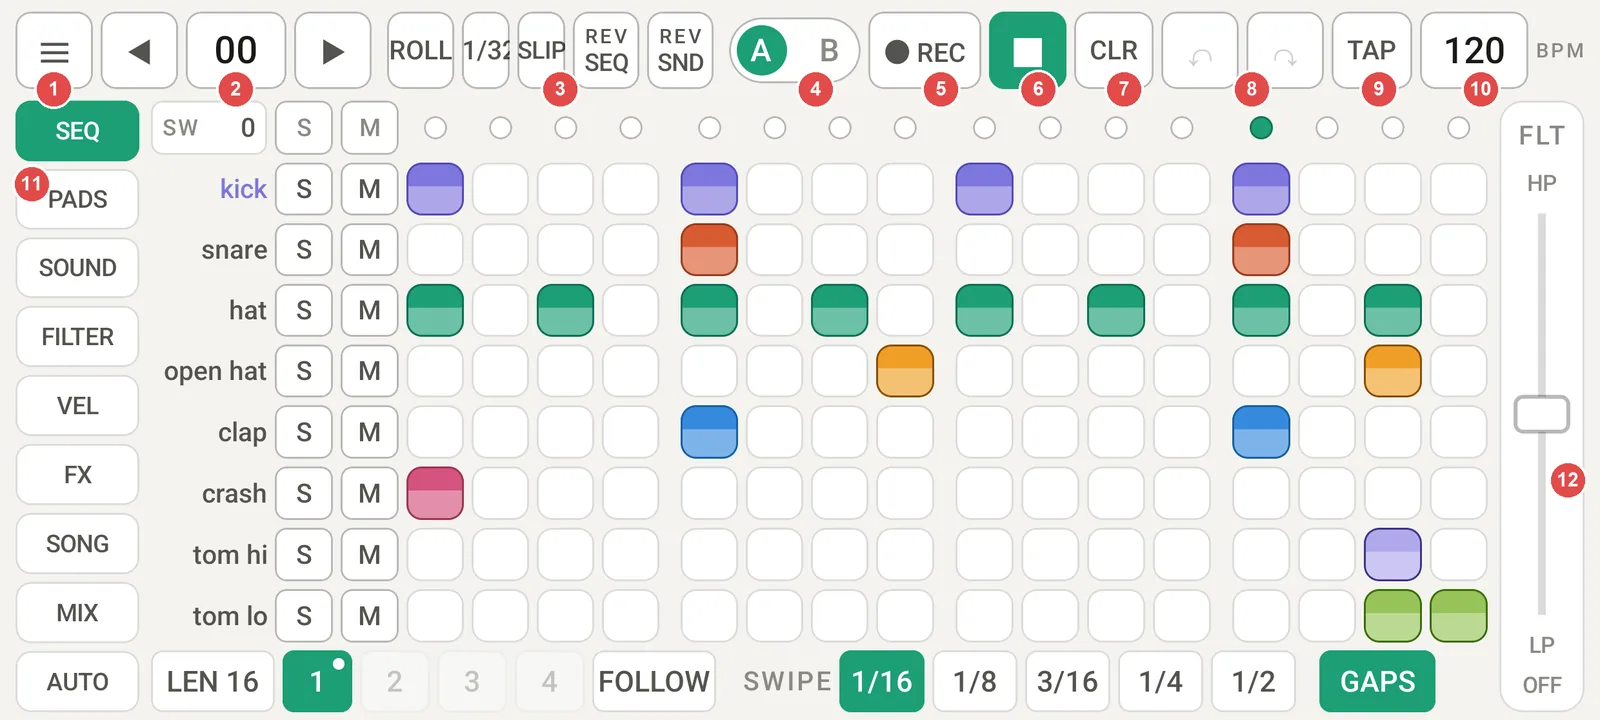
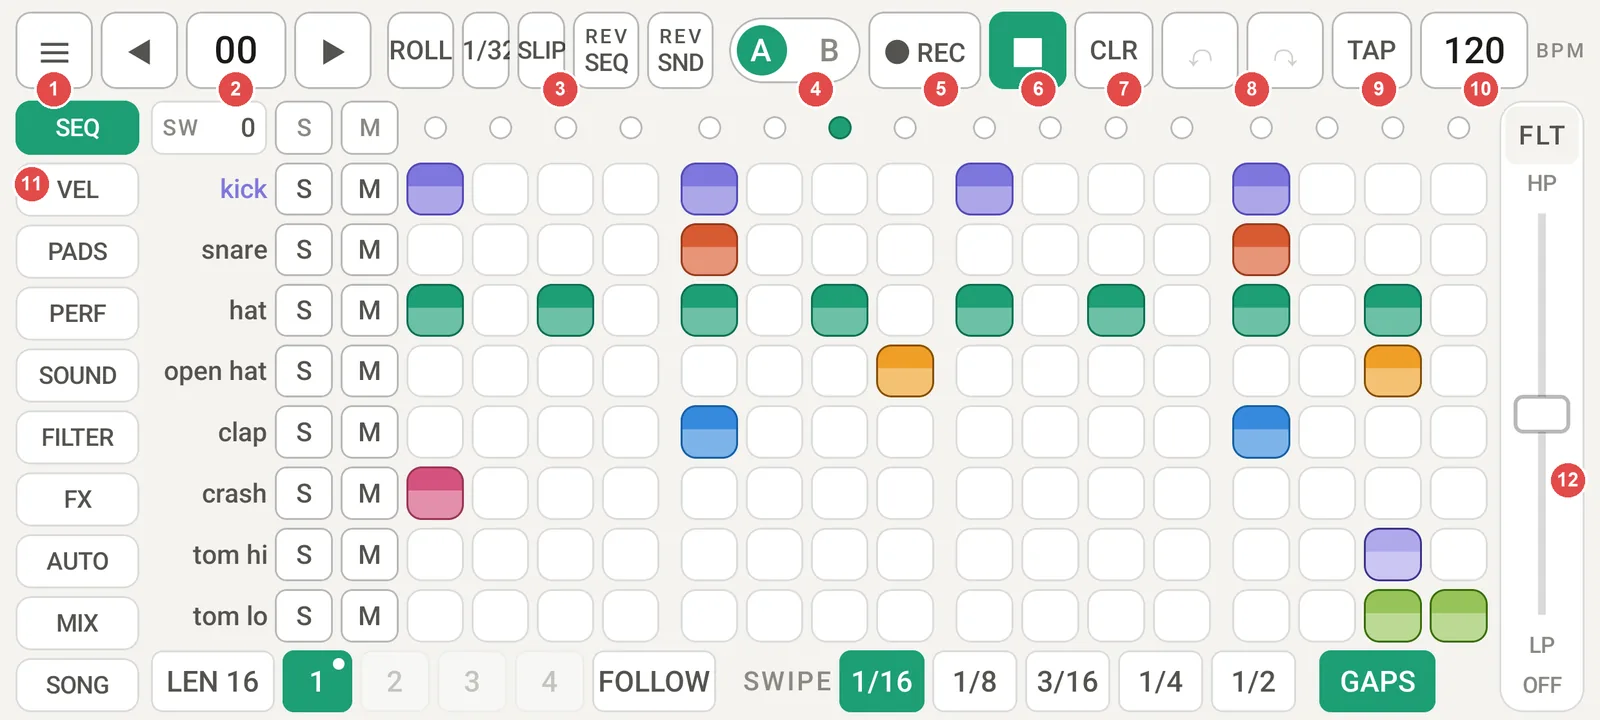
DBR-1 manual: performance screen (PERF)
Claude-Session: https://claude.ai/code/session_014nrG8LAda3EPv8TQp5hzGz

diff --git a/dbr1/manual/ja.html b/dbr1/manual/ja.html
@@ -61,7 +61,7 @@
 <tr><td class="n"><span class="num">17</span></td><td>LEN・ページ・FOLLOW</td><td>パターンの長さ（1〜64 ステップ）、表示するページ（1〜4）、ページを再生位置に合わせるか</td></tr>
 <tr><td class="n"><span class="num">18</span></td><td>SWIPE・GAPS</td><td>なぞって入力するときの間隔（→ <a href="#beat">2</a>）</td></tr>
 <tr><td class="n"><span class="num">19</span></td><td>FLT（全体フィルター）/ USER</td><td>上へ動かすとハイパス、下へ動かすとローパス。上の名前のタップで USER1・USER2 …（割り当てたパラメーターの足し引き）に切り替え、長押しで割り当て（→ <a href="#macro">7</a>）</td></tr>
-<tr><td class="n"><span class="num">20</span></td><td>ROLL・SLIP・REV</td><td>演奏用のボタン（→ <a href="#perform">7</a>）</td></tr>
+<tr><td class="n"><span class="num">20</span></td><td>ROLL・SLIP・REV・PERF</td><td>演奏用のボタン（→ <a href="#perform">7</a>）。PERF でパフォーマンス画面（→ <a href="#performscreen">7</a>）</td></tr>
 <tr><td class="n"><span class="num">21</span></td><td>パッド</td><td>叩くと鳴り、そのトラックを選択します。再生中は鳴ったトラックのパッドが光ります</td></tr>
 <tr><td class="n"><span class="num">22</span></td><td>タブ</td><td>SOUND / FILTER / VELOCITY / FX / SONG の切り替え</td></tr>
 </table>
@@ -74,8 +74,8 @@
 <tr><td class="n"><span class="num">2</span></td><td>パターン番号</td><td>タブレットと同じ</td></tr>
 <tr><td class="n"><span class="num">3</span></td><td>ROLL・長さ・SLIP・REV</td><td>長さはタップで 1/4 → 1/8 → 1/16 → 1/32 と切り替え</td></tr>
 <tr><td class="n"><span class="num">4〜10</span></td><td>BANK・REC・▶・CLR・↶↷・TAP・BPM</td><td>タブレットと同じ</td></tr>
-<tr><td class="n"><span class="num">11</span></td><td>画面の切り替え</td><td>SEQ（ステップ）/ VEL / PADS / SOUND / FILTER / FX / AUTO（オートメーション）/ MIX（ミキサー）/ SONG。<b>長押し（振動）して上下にドラッグ</b>すると並びを入れ替えられます（ジャンルや作り方に合わせて。端末に保存、≡ の「Reset tab order」で元の並びに）</td></tr>
-<tr><td class="n"><span class="num">12</span></td><td>FLT</td><td>全体フィルター / USER（どの画面でも使えます）</td></tr>
+<tr><td class="n"><span class="num">11</span></td><td>画面の切り替え</td><td>SEQ（ステップ）/ VEL / PADS / PERF（パフォーマンス画面、→ <a href="#performscreen">7</a>）/ SOUND / FILTER / FX / AUTO（オートメーション）/ MIX（ミキサー）/ SONG。<b>長押し（振動）して上下にドラッグ</b>すると並びを入れ替えられます（ジャンルや作り方に合わせて。端末に保存、≡ の「Reset tab order」で元の並びに）</td></tr>
+<tr><td class="n"><span class="num">12</span></td><td>FLT</td><td>全体フィルター / USER（PERF 以外のどの画面でも使えます）</td></tr>
 </table>
 <div class="cols">
 <figure><img src="img/phone_pads.webp" alt="PADS 画面"><figcaption>PADS: 16 個のパッド</figcaption></figure>
@@ -323,7 +323,7 @@
 
 <!-- ============================================================ -->
 <section id="perform">
-<h2>7. 演奏用の機能（ROLL / REV / フィルター）</h2>
+<h2>7. 演奏用の機能（ROLL / REV / フィルター / パフォーマンス画面）</h2>
 <figure><img src="img/perform_bar.webp" alt="ROLL と REV のボタン"></figure>
 <table>
 <tr><th>ボタン</th><th>操作</th><th>はたらき</th></tr>
@@ -344,6 +344,41 @@
   <li>フェーダーの下には足し引きの量（+ / −）、動かしていないときは割り当ての数（×2 など）が出ます。FILTER タブの AUTO RETURN が ON なら、指を離すと中央（足し引きなし）に戻ります。役割を切り替えると、前の役割の効果は外れます。</li>
   <li>役割と割り当てはプロジェクトに保存されます（フェーダーの位置は保存しません。↶ の対象外）。トラックを入れ替えると、割り当ても付いていきます。音の書き出し（PATTERN / SONG）にはかからず、RECORD（演奏の録音・録画）では聞こえるとおりに残ります。</li>
 </ul>
+<h3 id="performscreen">パフォーマンス画面（PERF）</h3>
+<figure><img src="img/perform_screen.webp" alt="パフォーマンス画面"></figure>
+<p>シーケンスを鳴らしながら演奏するための画面です。8×4 のマス目に、ボタン・フェーダー・ノブを好きな大きさで並べて、自分用の演奏の画面を作れます。タブレットはパッドの上の <span class="key">PERF</span>、スマートフォンは左のタブの <b>PERF</b>（PADS の下）で開きます。タブレットでは右上の <span class="key">✕</span> で元の画面に戻ります。</p>
+<ul>
+  <li>ページは 1〜4 です。配置は端末に保存され、どのプロジェクトを開いても同じです（タブレットとスマートフォンの配置は別々）。最初は 1 ページ目に ROLL・MUTE・シーン・パターン・パッド・FX・FLT・ノブが並んでいます。</li>
+  <li>部品はそれぞれ別の指で同時に触れます（ROLL を押しながらフェーダーを動かす、など）。</li>
+  <li>全体フィルターの縦フェーダーはこの画面には出ません。FLT を部品として好きな場所に置けます。</li>
+</ul>
+<p><b>並べ方（EDIT）</b>: 右上の <span class="key">EDIT</span> を押すと、空いたマスに「+」が出ます。</p>
+<ul>
+  <li>空いたマスをタップ → BUTTON / FADER / KNOB を選んで足します（フェーダーは縦 2 マス）。</li>
+  <li>部品をタップすると設定が開きます。ドラッグで移動、右下の <b>◢</b> をドラッグで大きさを変えます。ほかの部品と重なる場所・はみ出す場所には置けません。</li>
+  <li><span class="key">⋯</span> で「このページを空にする（Clear this page）」「最初の配置にする（Default layout on this page）」。<span class="key">DONE</span> で終わります。</li>
+</ul>
+<figure><img src="img/perform_item.webp" alt="部品の設定"><figcaption>部品の設定（ボタン: ACTION・TRACK・PRESS・NAME）</figcaption></figure>
+<table>
+<tr><th>ボタンの ACTION</th><th>はたらき</th></tr>
+<tr><td>ROLL</td><td>LENGTH（1/4〜1/32）を選び、押している間くり返します。長さごとに別のボタンにできます。2 つ押したときは後から押したほうが鳴り、離すと前のほうに戻ります</td></tr>
+<tr><td>REV SEQ・REV SND・SLIP</td><td>上の演奏用のボタンと同じ</td></tr>
+<tr><td>PAD</td><td>トラックの音を鳴らします（REC 中は記録。強さはパッドの強さの設定）</td></tr>
+<tr><td>MUTE・SOLO</td><td>TRACK で 1 トラックを選ぶほか、<b>ALL 16 TRACKS</b>（16 トラック全部。1 つでもオンなら全部オフ、全部オフなら全部オン）、<b>INVERT ALL</b>（16 トラックのオン・オフをそれぞれ反転）</td></tr>
+<tr><td>PATTERN・◀ PATTERN・PATTERN ▶</td><td>決めた番号のパターンへ / 前・次のパターンへ。再生中は小節の終わりで切り替わります</td></tr>
+<tr><td>SCENE A・SCENE B・SCENE A⇄B</td><td>FX シーンの切り替え</td></tr>
+<tr><td>REVERB・DELAY・DIST</td><td>エフェクトの ON / OFF</td></tr>
+</table>
+<p>PRESS: <b>WHILE HELD</b> = 押している間だけ（離すと押す前の状態に戻る）、<b>TOGGLE</b> = 押すたびに切り替え。NAME で 10 文字までの名前を付けられます（空 = 自動）。</p>
+<table>
+<tr><th>フェーダー・ノブの CONTROLS</th><th>はたらき</th></tr>
+<tr><td>FLT</td><td>全体フィルター（上 = ハイパス、下 = ローパス）</td></tr>
+<tr><td>USER</td><td>USER1〜8 の割り当てを足し引きします（→ <a href="#macro">USER</a>）。メインフェーダーの USER とも足し合わされ、いくつ同時に動かしてもかまいません。<b>Edit USER…</b> で割り当ての画面へ</td></tr>
+<tr><td>PARAMETER</td><td>パラメーター 1 つ。TARGET で SELECTED TRACK（選択中のトラック）・決まったトラック（14 種類）か、FX / MASTER（11 種類）を選びます</td></tr>
+</table>
+<p>ON RELEASE: <b>RETURN</b> = 指を離すと戻る（FLT・USER は中央、パラメーターは触る前の値）、<b>STAY</b> = そのまま。フェーダーは触れた位置へ動き、ノブは上下（または左右）にドラッグして回します。</p>
+<figure><img src="img/phone_perform.webp" alt="スマートフォンのパフォーマンス画面"><figcaption>スマートフォン: 左のタブの PERF</figcaption></figure>
+<div class="tip">MUTE・SOLO・シーン・エフェクトの ON / OFF、パラメーターの変更は、ふだんの操作と同じように ↶ で戻せて、プロジェクトに保存されます。REC 中に再生しながらパラメーターを動かすと、MIDI の CC と同じようにオートメーションとして記録されます。</div>
 </section>
 
 <!-- ============================================================ -->
@@ -556,6 +591,7 @@
 <tr><td>パターンの切り替え</td><td>再生中は小節（パターン）の終わり、停止中はすぐ</td></tr>
 <tr><td>録音</td><td>いちばん近いステップに記録。REC で再生を始めると 1 小節のカウントイン</td></tr>
 <tr><td>ロール</td><td>1/4・1/8・1/16・1/32、SLIP あり / なし</td></tr>
+<tr><td>パフォーマンス画面</td><td>8×4 のマス目 × 4 ページ（端末に保存。タブレット・スマートフォン別）。ボタン 16 種類（押している間 / 押すたびに切替）、フェーダー・ノブ（FLT / USER / パラメーター 1 つ）</td></tr>
 <tr><td>元に戻す</td><td>100 回まで（ステップ・キット・ソング・パターンのテンポ）</td></tr>
 <tr><td>オートメーション</td><td>パターンごと。ステップごとのロック、または 1 ステップ 8 点の線。トラック 14・FX / MASTER 12 のパラメーター</td></tr>
 </table>

diff --git a/dbr1/manual/en.html b/dbr1/manual/en.html
@@ -61,7 +61,7 @@
 <tr><td class="n"><span class="num">17</span></td><td>LEN, pages, FOLLOW</td><td>Pattern length (1–64 steps), the page on screen (1–4), and whether the page follows the playhead</td></tr>
 <tr><td class="n"><span class="num">18</span></td><td>SWIPE, GAPS</td><td>Spacing used when you swipe across steps (→ <a href="#beat">2</a>)</td></tr>
 <tr><td class="n"><span class="num">19</span></td><td>FLT (master filter) / USER</td><td>Up = high-pass, down = low-pass. Tap the name above it to switch to USER1, USER2 … (adds to / subtracts from assigned parameters); long-press to assign (→ <a href="#macro">7</a>)</td></tr>
-<tr><td class="n"><span class="num">20</span></td><td>ROLL, SLIP, REV</td><td>Performance buttons (→ <a href="#perform">7</a>)</td></tr>
+<tr><td class="n"><span class="num">20</span></td><td>ROLL, SLIP, REV, PERF</td><td>Performance buttons (→ <a href="#perform">7</a>). PERF opens the performance screen (→ <a href="#performscreen">7</a>)</td></tr>
 <tr><td class="n"><span class="num">21</span></td><td>Pads</td><td>Hit to play the sound and select that track. While playing, the pad of each track that plays lights up</td></tr>
 <tr><td class="n"><span class="num">22</span></td><td>Tabs</td><td>SOUND / FILTER / VELOCITY / FX / SONG</td></tr>
 </table>
@@ -74,8 +74,8 @@
 <tr><td class="n"><span class="num">2</span></td><td>Pattern number</td><td>Same as on the tablet</td></tr>
 <tr><td class="n"><span class="num">3</span></td><td>ROLL, length, SLIP, REV</td><td>Tap the length to cycle 1/4 → 1/8 → 1/16 → 1/32</td></tr>
 <tr><td class="n"><span class="num">4–10</span></td><td>BANK, REC, ▶, CLR, ↶↷, TAP, BPM</td><td>Same as on the tablet</td></tr>
-<tr><td class="n"><span class="num">11</span></td><td>Views</td><td>SEQ (steps) / VEL / PADS / SOUND / FILTER / FX / AUTO (automation) / MIX (mixer) / SONG. <b>Long-press a tab (it vibrates) and drag up or down</b> to reorder them to suit your genre or workflow (saved on the device; "Reset tab order" in ≡ restores the default)</td></tr>
-<tr><td class="n"><span class="num">12</span></td><td>FLT</td><td>Master filter / USER (available on every view)</td></tr>
+<tr><td class="n"><span class="num">11</span></td><td>Views</td><td>SEQ (steps) / VEL / PADS / PERF (performance screen, → <a href="#performscreen">7</a>) / SOUND / FILTER / FX / AUTO (automation) / MIX (mixer) / SONG. <b>Long-press a tab (it vibrates) and drag up or down</b> to reorder them to suit your genre or workflow (saved on the device; "Reset tab order" in ≡ restores the default)</td></tr>
+<tr><td class="n"><span class="num">12</span></td><td>FLT</td><td>Master filter / USER (available on every view except PERF)</td></tr>
 </table>
 <div class="cols">
 <figure><img src="img/phone_pads.webp" alt="PADS view"><figcaption>PADS: the 16 pads</figcaption></figure>
@@ -323,7 +323,7 @@
 
 <!-- ============================================================ -->
 <section id="perform">
-<h2>7. Performance (ROLL / REV / filter)</h2>
+<h2>7. Performance (ROLL / REV / filter / performance screen)</h2>
 <figure><img src="img/perform_bar.webp" alt="ROLL and REV buttons"></figure>
 <table>
 <tr><th>Button</th><th>Action</th><th>What it does</th></tr>
@@ -344,6 +344,41 @@
   <li>Below the fader you see how much is added (+ / −), or the number of assignments (×2 etc.) when it is at the center. With AUTO RETURN on (FILTER tab), the fader returns to the center when you let go. Switching the role removes the previous role's effect.</li>
   <li>The role and assignments are saved with the project (the fader position is not; undo does not cover them). Swapping tracks keeps the assignments on the swapped tracks. USER does not affect PATTERN / SONG exports; RECORD (recording your performance) captures it as you hear it.</li>
 </ul>
+<h3 id="performscreen">Performance screen (PERF)</h3>
+<figure><img src="img/perform_screen.webp" alt="Performance screen"></figure>
+<p>A screen for playing live while the sequence runs. Place buttons, faders and knobs of any size on an 8×4 grid to build your own performance surface. On tablets, open it with <span class="key">PERF</span> above the pads; on phones, with the <b>PERF</b> tab on the left (below PADS). On tablets, <span class="key">✕</span> at the top right goes back.</p>
+<ul>
+  <li>There are 4 pages. The layout is saved on the device and stays the same whichever project you open (tablet and phone layouts are separate). Page 1 starts with ROLL, MUTE, scene, pattern, pad, FX, FLT and knob controls.</li>
+  <li>Each part can be touched with a different finger at the same time (hold ROLL while moving a fader, for example).</li>
+  <li>The master filter fader is not shown on this screen; place FLT as a part wherever you like.</li>
+</ul>
+<p><b>Arranging (EDIT)</b>: Press <span class="key">EDIT</span> at the top right; empty cells show "+".</p>
+<ul>
+  <li>Tap an empty cell → choose BUTTON / FADER / KNOB to add one (faders take 2 cells vertically).</li>
+  <li>Tap a part to open its settings. Drag it to move it, and drag <b>◢</b> at its bottom right to resize. Parts cannot overlap or go off the grid.</li>
+  <li><span class="key">⋯</span> offers "Clear this page" and "Default layout on this page". <span class="key">DONE</span> finishes.</li>
+</ul>
+<figure><img src="img/perform_item.webp" alt="Part settings"><figcaption>Part settings (button: ACTION, TRACK, PRESS, NAME)</figcaption></figure>
+<table>
+<tr><th>Button ACTION</th><th>What it does</th></tr>
+<tr><td>ROLL</td><td>Choose a LENGTH (1/4–1/32); repeats while held. Make one button per length if you like. With two held, the one pressed last plays; releasing it returns to the other</td></tr>
+<tr><td>REV SEQ, REV SND, SLIP</td><td>Same as the performance buttons above</td></tr>
+<tr><td>PAD</td><td>Plays the track's sound (recorded while REC is on; strength follows the pad velocity setting)</td></tr>
+<tr><td>MUTE, SOLO</td><td>Pick one track under TRACK, or <b>ALL 16 TRACKS</b> (all on — or all off if any is on) or <b>INVERT ALL</b> (flips each of the 16 tracks on ↔ off)</td></tr>
+<tr><td>PATTERN, ◀ PATTERN, PATTERN ▶</td><td>Go to a set pattern number / the previous or next pattern. While playing, the change happens at the end of the bar</td></tr>
+<tr><td>SCENE A, SCENE B, SCENE A⇄B</td><td>Switch the FX scene</td></tr>
+<tr><td>REVERB, DELAY, DIST</td><td>Turn the effect on / off</td></tr>
+</table>
+<p>PRESS: <b>WHILE HELD</b> = only while pressed (returns to the previous state on release), <b>TOGGLE</b> = switches on each press. NAME sets a name of up to 10 characters (empty = automatic).</p>
+<table>
+<tr><th>Fader / knob CONTROLS</th><th>What it does</th></tr>
+<tr><td>FLT</td><td>Master filter (up = high-pass, down = low-pass)</td></tr>
+<tr><td>USER</td><td>Adds / subtracts a USER1–8 assignment (→ <a href="#macro">USER</a>). It adds up with the main fader's USER, and any number can move at once. <b>Edit USER…</b> opens the assignment screen</td></tr>
+<tr><td>PARAMETER</td><td>A single parameter. Under TARGET, choose SELECTED TRACK, a fixed track (14 parameters) or FX / MASTER (11 parameters)</td></tr>
+</table>
+<p>ON RELEASE: <b>RETURN</b> = goes back when you let go (FLT and USER to the center, a parameter to its value before you touched it), <b>STAY</b> = stays. Faders jump to where you touch; knobs turn by dragging up / down (or left / right).</p>
+<figure><img src="img/phone_perform.webp" alt="Performance screen on a phone"><figcaption>Phones: the PERF tab on the left</figcaption></figure>
+<div class="tip">MUTE, SOLO, scene, effect on / off and parameter changes work like the usual controls: ↶ undoes them and they are saved with the project. Moving a parameter while recording (REC on, playing) records it as automation, just like a MIDI CC.</div>
 </section>
 
 <!-- ============================================================ -->
@@ -556,6 +591,7 @@
 <tr><td>Pattern change</td><td>At the end of the bar while playing, immediately when stopped</td></tr>
 <tr><td>Recording</td><td>Quantized to the nearest step; one-bar count-in when starting with REC on</td></tr>
 <tr><td>Roll</td><td>1/4, 1/8, 1/16, 1/32, with or without SLIP</td></tr>
+<tr><td>Performance screen</td><td>8×4 grid × 4 pages (saved on the device, separately for tablet and phone). 16 button actions (while held / toggle), faders and knobs (FLT / USER / a single parameter)</td></tr>
 <tr><td>Undo</td><td>Up to 100 steps (steps, kit, song, pattern tempo)</td></tr>
 <tr><td>Automation</td><td>Per pattern. Per-step locks or a line with 8 points per step. 14 track and 12 FX / master parameters</td></tr>
 </table>
